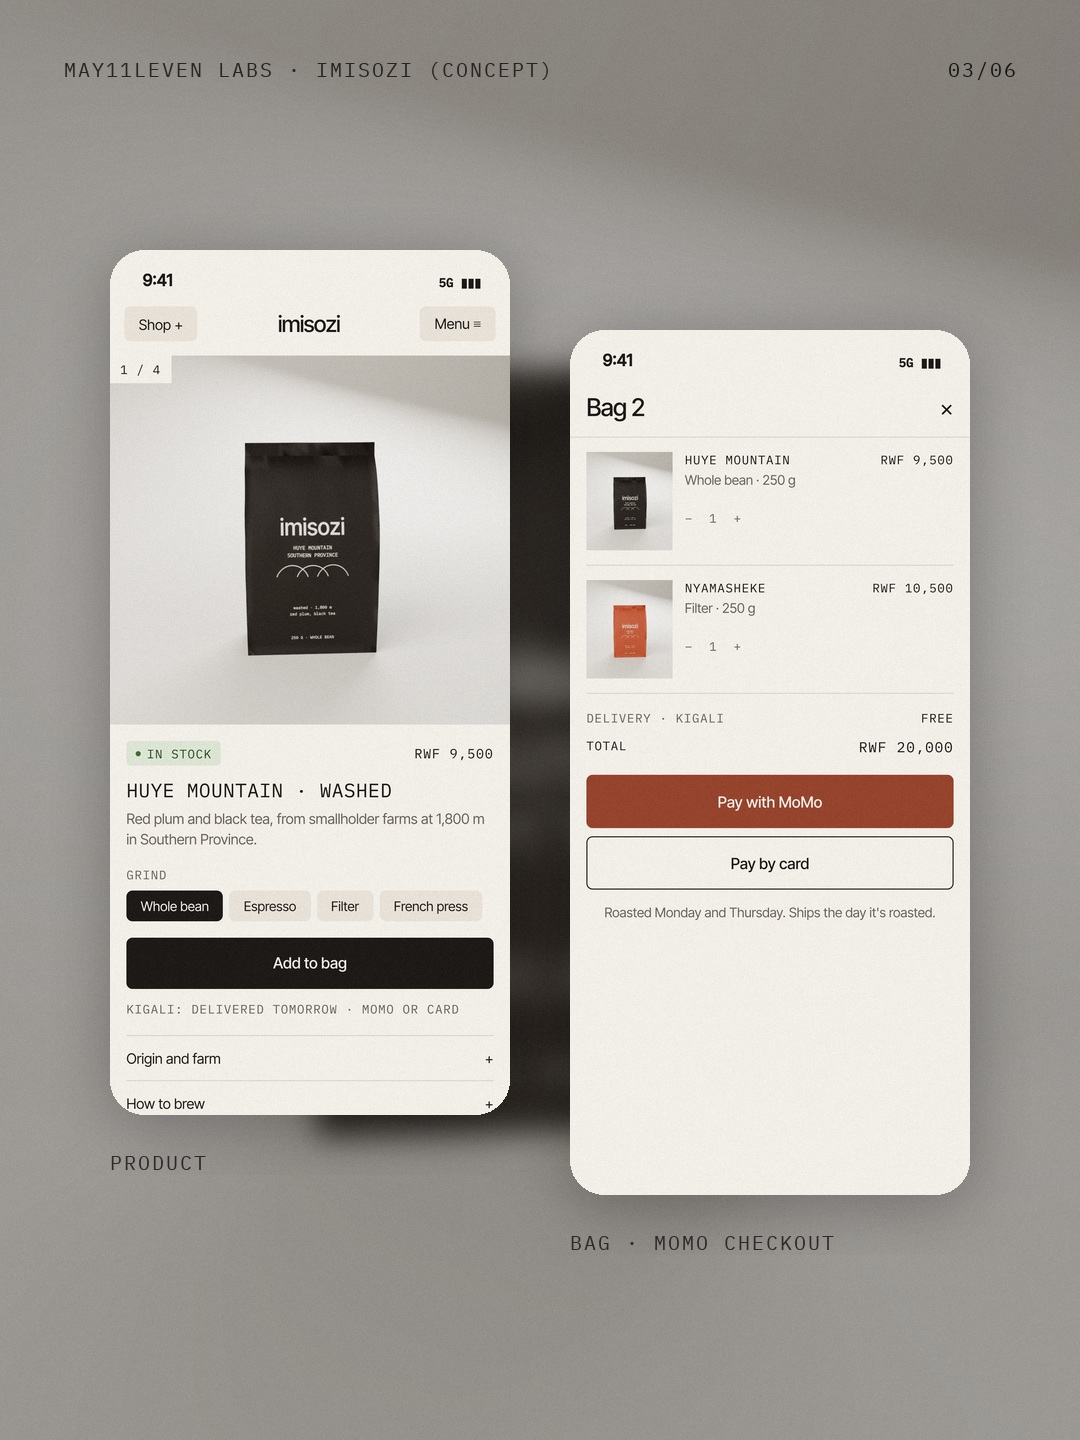
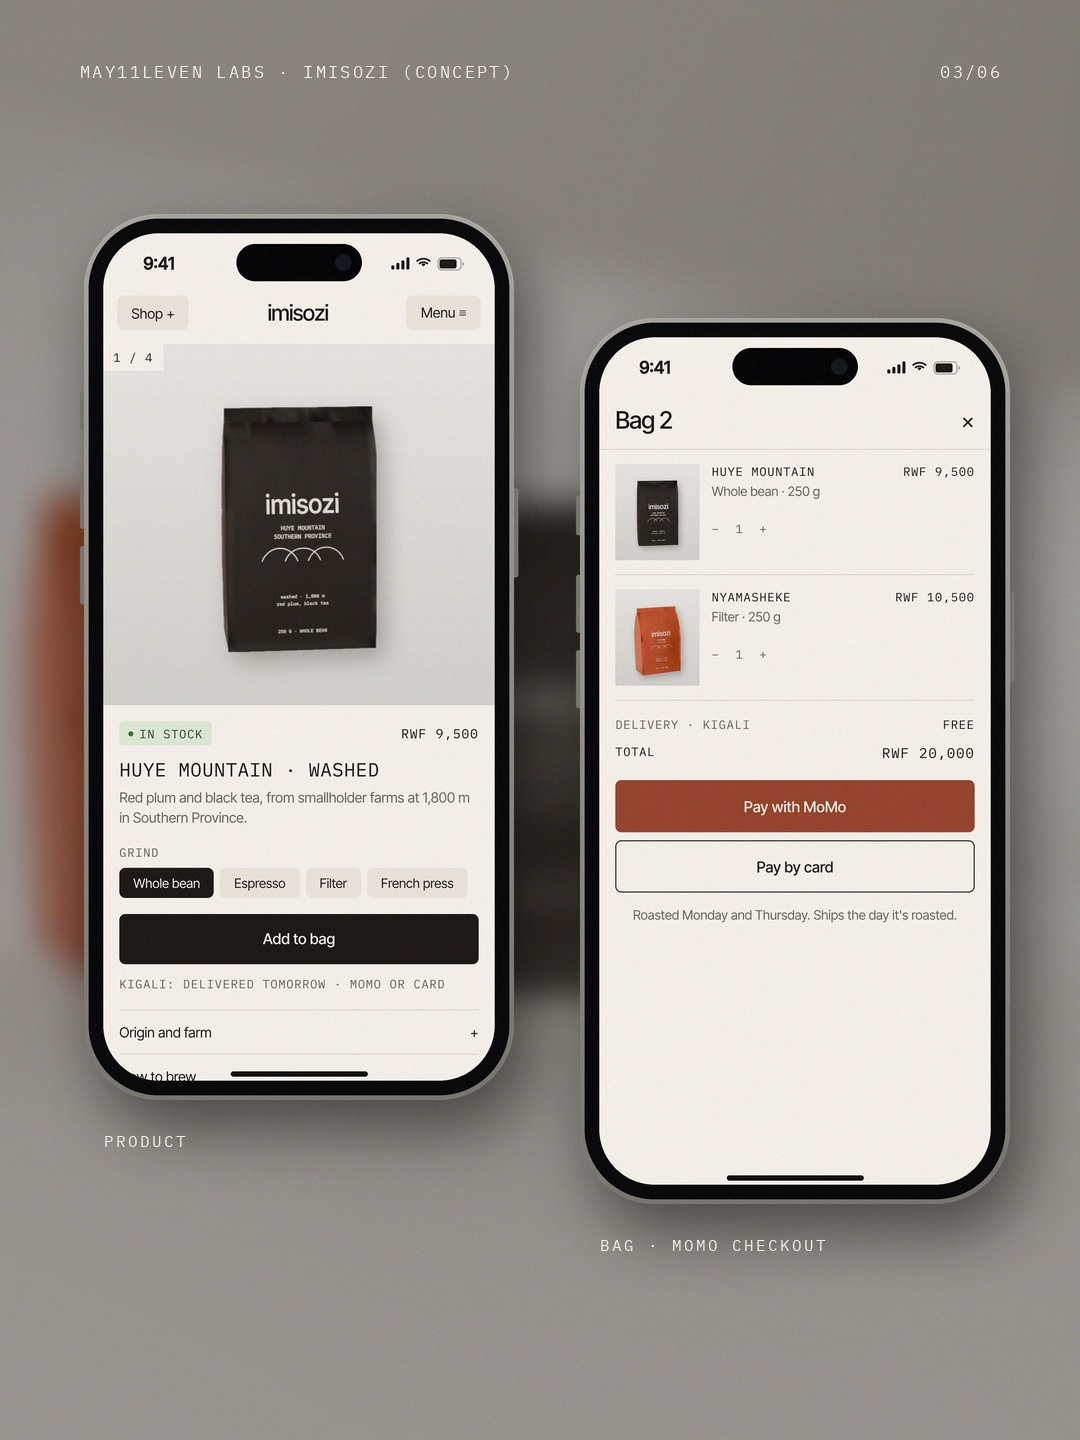
Imisozi slide 3: real phone hardware and status bar
Claude-Session: https://claude.ai/code/session_019pcNfRHGxsRYW5k4Gc3WRr

diff --git a/brand/code/imz/site.html b/brand/code/imz/site.html
@@ -70,7 +70,7 @@ html,body{background:var(--paper);color:var(--ink);font-family:IT;-webkit-font-s
 
 <!-- MOBILE PRODUCT 390x844 -->
 <div class="scr" id="mp" style="width:390px;height:844px">
- <div style="height:47px;display:flex;align-items:flex-end;justify-content:space-between;padding:0 28px 8px 32px;font-weight:600;font-size:16px"><span>9:41</span><span style="font-family:PM;font-size:12px">5G ▮▮▮</span></div>
+ <div style="height:54px;display:flex;align-items:center;justify-content:space-between;padding:6px 30px 0 40px;font-weight:600;font-size:17px"><span>9:41</span><span style="display:flex;gap:6px;align-items:center"><svg width="18" height="12" viewBox="0 0 18 12"><rect x="0" y="8" width="3" height="4" rx="1" fill="currentColor"/><rect x="5" y="5.5" width="3" height="6.5" rx="1" fill="currentColor"/><rect x="10" y="3" width="3" height="9" rx="1" fill="currentColor"/><rect x="15" y="0" width="3" height="12" rx="1" fill="currentColor"/></svg><svg width="16" height="12" viewBox="0 0 16 12"><path d="M8 2.2c2.4 0 4.6.9 6.2 2.5l1.2-1.2A10.4 10.4 0 0 0 8 .5 10.4 10.4 0 0 0 .6 3.5l1.2 1.2A8.7 8.7 0 0 1 8 2.2zm0 3.4c1.5 0 2.8.6 3.8 1.5l1.2-1.2A7 7 0 0 0 8 3.9a7 7 0 0 0-5 2l1.2 1.2c1-.9 2.3-1.5 3.8-1.5zM8 9l2.1-2.1A3 3 0 0 0 8 6.1a3 3 0 0 0-2.1.8z" fill="currentColor"/></svg><svg width="27" height="13" viewBox="0 0 27 13"><rect x=".5" y=".5" width="23" height="12" rx="3.5" fill="none" stroke="currentColor" opacity=".4"/><rect x="2" y="2" width="17" height="9" rx="2" fill="currentColor"/><path d="M25 4.5v4c.8-.3 1.3-1.1 1.3-2s-.5-1.7-1.3-2z" fill="currentColor" opacity=".45"/></svg></span></div>
  <div style="display:flex;justify-content:space-between;align-items:center;padding:8px 14px"><span class="pill">Shop +</span><span class="wm" style="font-size:22px">imisozi</span><span class="pill">Menu ≡</span></div>
  <div class="tile" style="height:360px;margin-top:6px"><img src="huye1.png"><span class="tag">1 / 4</span></div>
  <div style="padding:16px 16px 0">
@@ -91,7 +91,7 @@ html,body{background:var(--paper);color:var(--ink);font-family:IT;-webkit-font-s
 
 <!-- MOBILE BAG 390x844 -->
 <div class="scr" id="mb" style="width:390px;height:844px">
- <div style="height:47px;display:flex;align-items:flex-end;justify-content:space-between;padding:0 28px 8px 32px;font-weight:600;font-size:16px"><span>9:41</span><span style="font-family:PM;font-size:12px">5G ▮▮▮</span></div>
+ <div style="height:54px;display:flex;align-items:center;justify-content:space-between;padding:6px 30px 0 40px;font-weight:600;font-size:17px"><span>9:41</span><span style="display:flex;gap:6px;align-items:center"><svg width="18" height="12" viewBox="0 0 18 12"><rect x="0" y="8" width="3" height="4" rx="1" fill="currentColor"/><rect x="5" y="5.5" width="3" height="6.5" rx="1" fill="currentColor"/><rect x="10" y="3" width="3" height="9" rx="1" fill="currentColor"/><rect x="15" y="0" width="3" height="12" rx="1" fill="currentColor"/></svg><svg width="16" height="12" viewBox="0 0 16 12"><path d="M8 2.2c2.4 0 4.6.9 6.2 2.5l1.2-1.2A10.4 10.4 0 0 0 8 .5 10.4 10.4 0 0 0 .6 3.5l1.2 1.2A8.7 8.7 0 0 1 8 2.2zm0 3.4c1.5 0 2.8.6 3.8 1.5l1.2-1.2A7 7 0 0 0 8 3.9a7 7 0 0 0-5 2l1.2 1.2c1-.9 2.3-1.5 3.8-1.5zM8 9l2.1-2.1A3 3 0 0 0 8 6.1a3 3 0 0 0-2.1.8z" fill="currentColor"/></svg><svg width="27" height="13" viewBox="0 0 27 13"><rect x=".5" y=".5" width="23" height="12" rx="3.5" fill="none" stroke="currentColor" opacity=".4"/><rect x="2" y="2" width="17" height="9" rx="2" fill="currentColor"/><path d="M25 4.5v4c.8-.3 1.3-1.1 1.3-2s-.5-1.7-1.3-2z" fill="currentColor" opacity=".45"/></svg></span></div>
  <div style="display:flex;justify-content:space-between;align-items:center;padding:14px 16px;border-bottom:1px solid var(--line)"><span style="font-size:24px;font-weight:500;letter-spacing:-.03em">Bag 2</span><span style="font-size:22px">×</span></div>
  <div style="padding:0 16px">
   <div style="display:flex;gap:12px;padding:14px 0;border-bottom:1px solid var(--line)"><div class="tile" style="width:84px;height:96px"><img src="huye1.png"></div><div style="flex:1"><div style="display:flex;justify-content:space-between"><span class="mono" style="font-size:12px">Huye Mountain</span><span class="mono" style="font-size:12px">RWF 9,500</span></div><div style="font-size:13px;color:var(--mid);margin-top:4px">Whole bean · 250 g</div><div class="mono" style="margin-top:22px;color:var(--mid)">−&nbsp;&nbsp;1&nbsp;&nbsp;+</div></div></div>

diff --git a/brand/code/imz/slide3.py b/brand/code/imz/slide3.py
@@ -1,0 +1,53 @@
+from PIL import Image, ImageDraw, ImageFilter, ImageFont
+import numpy as np
+W,H=1080,1440; K=3
+PAPER=(242,238,232)
+FM='/home/claude/may11leven-media/brand/fonts/PlexMono.ttf'
+def tracked(d,xy,text,font,fill,track,anchor='l'):
+    x,y=xy; text=text.upper()
+    w=sum(d.textlength(ch,font=font)+track for ch in text)-track
+    if anchor=='r': x-=w
+    for ch in text: d.text((x,y),ch,font=font,fill=fill); x+=d.textlength(ch,font=font)+track
+cover=Image.open('trio.png').convert('RGB')
+bg=cover.resize((W,H)).filter(ImageFilter.GaussianBlur(16))
+bg=Image.blend(bg,Image.new('RGB',(W,H),(40,36,32)),0.38)
+def phone(screen_path,S):
+    s=Image.open(screen_path).convert('RGB'); S*=K
+    sh=int(S*844/390); s=s.resize((S,sh),Image.LANCZOS)
+    b=int(S*0.038); rim=int(S*0.012)
+    Wd,Hd=S+2*(b+rim),sh+2*(b+rim)
+    rs=int(S*0.142); rb=rs+b; ro=rb+rim
+    img=Image.new('RGBA',(Wd+40*K,Hd),(0,0,0,0)); d=ImageDraw.Draw(img); ox=20*K
+    # side buttons (titanium)
+    btn=(118,116,112,255)
+    d.rounded_rectangle((ox-4*K,int(Hd*.20),ox+2*K,int(Hd*.245)),radius=2*K,fill=btn)  # action
+    d.rounded_rectangle((ox-4*K,int(Hd*.29),ox+2*K,int(Hd*.355)),radius=2*K,fill=btn)  # vol up
+    d.rounded_rectangle((ox-4*K,int(Hd*.375),ox+2*K,int(Hd*.44)),radius=2*K,fill=btn)  # vol down
+    d.rounded_rectangle((ox+Wd-2*K,int(Hd*.31),ox+Wd+4*K,int(Hd*.41)),radius=2*K,fill=btn) # power
+    # titanium rim with soft vertical gradient
+    g=np.linspace(0,1,Hd)[:,None]
+    col=(np.array([168,165,160])[None,None,:]*(1-g[:,:,None])+np.array([120,117,112])[None,None,:]*g[:,:,None])
+    rimimg=Image.fromarray(np.dstack([np.repeat(col[:,:,i],Wd,1) for i in range(3)]).astype(np.uint8))
+    mask=Image.new('L',(Wd,Hd),0); ImageDraw.Draw(mask).rounded_rectangle((0,0,Wd-1,Hd-1),radius=ro,fill=255)
+    img.paste(rimimg,(ox,0),mask)
+    d.rounded_rectangle((ox+rim,rim,ox+Wd-1-rim,Hd-1-rim),radius=rb,fill=(10,10,11,255))
+    sm=Image.new('L',(S,sh),0); ImageDraw.Draw(sm).rounded_rectangle((0,0,S-1,sh-1),radius=rs,fill=255)
+    img.paste(s,(ox+rim+b,rim+b),sm)
+    # dynamic island
+    iw,ih=int(S*0.32),int(S*0.095); ix=ox+Wd//2-iw//2; iy=rim+b+int(S*0.028)
+    d.rounded_rectangle((ix,iy,ix+iw,iy+ih),radius=ih//2,fill=(6,6,7,255))
+    d.ellipse((ix+iw-ih+int(ih*.28),iy+int(ih*.28),ix+iw-int(ih*.28),iy+ih-int(ih*.28)),fill=(22,24,32,255))
+    hw=int(S*0.35);hh=max(int(S*0.013),6);hx=ox+Wd//2-hw//2;hy=rim+b+sh-int(S*0.024)
+    d.rounded_rectangle((hx,hy,hx+hw,hy+hh),radius=hh//2,fill=(20,18,16,255))
+    return img.resize((img.width//K,img.height//K),Image.LANCZOS)
+def place(ph,x,y):
+    a=ph.split()[3]; shadow=Image.new('L',(W,H),0); shadow.paste(a.point(lambda v:int(v*.55)),(x+14,y+28)); shadow=shadow.filter(ImageFilter.GaussianBlur(30))
+    global bg; bg=Image.composite(Image.new('RGB',(W,H),(14,12,10)),bg,shadow); bg.paste(ph,(x,y),ph)
+p1=phone('mp.png',392); p2=phone('mb.png',392)
+place(p1,64,214); place(p2,560,318)
+d=ImageDraw.Draw(bg); f=ImageFont.truetype(FM,17); f2=ImageFont.truetype(FM,16)
+tracked(d,(80,60),'May11Leven Labs · Imisozi (concept)',f,PAPER,2.2); tracked(d,(1000,60),'03/06',f,PAPER,2.2,'r')
+tracked(d,(104,214+p1.height+30),'Product',f2,PAPER,2.4); tracked(d,(600,318+p2.height+30),'Bag · MoMo checkout',f2,PAPER,2.4)
+a=np.asarray(bg).astype(float); rng=np.random.default_rng(83); a+=rng.normal(0,2.0,a.shape)
+Image.fromarray(np.clip(a,0,255).astype(np.uint8)).save('imisozi-3.jpg',quality=94)
+print(p1.size,p2.size)

diff --git a/brand/practice/log.md b/brand/practice/log.md
@@ -37,3 +37,4 @@ After Satto's Pulvinar index (satto-07). Black page, 13 px grotesk, list + previ
 - Before scores: idea 3 · type 4 · colour 4 · air 4 · fidelity 3 · finish 3 · truth 4. Gaps: 4-dot grid and list columns not snapped to it; the preview was the full ata render, dark on black, so the tile vanished; "Concept" repeated in every row as noise.
 - Fix: 7-dot column grid with every column snapped to it; Imisozi row selected so the preview is a light tile, cropped tight and abstract like Satto's; last column = market code (KE/NG/RW/ZA); "Concept" said once in the footer; 4 px row padding.
 - After scores: idea 3 · type 4 · colour 4 · air 4 · fidelity 4 · finish 4 · truth 5. Next: the preview crop is upscaled and slightly soft at 2x; render a dedicated square crop.
+- **Imisozi phones:** the phone screens floated as rounded cards with no hardware, and the status bar was a text stub. Fixed by rebuilding the screens at @3x inside drawn iPhone frames (titanium rim, Dynamic Island, side buttons, home indicator) with real signal, wifi and battery icons.
